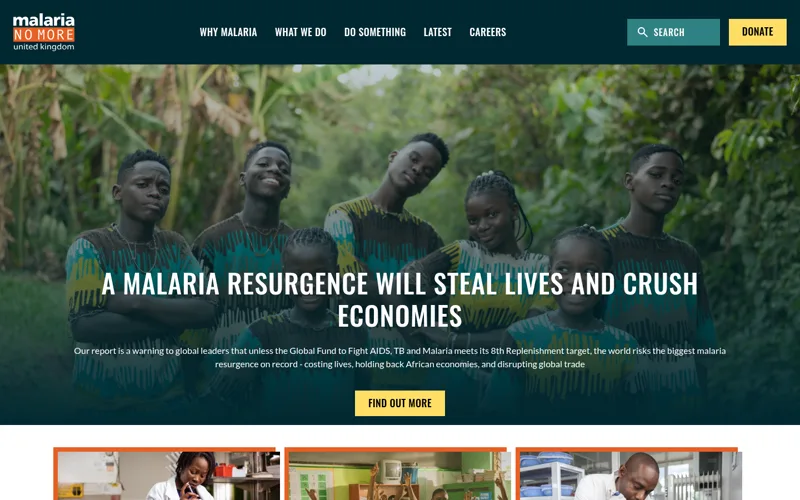
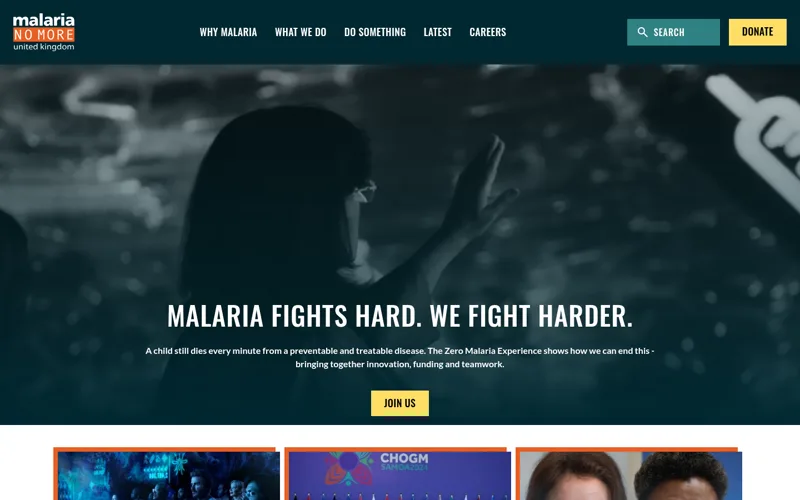
fix: tag each project with the year I worked on it (#40)
* fix: show Malaria No More UK as it was in December 2024

Its card was the only one tagged [today], because its screenshot came from the live site.
It now uses a Wayback Machine copy like the other cards.

* fix: tag each project with the year I worked on it

The bracket showed the year of the screenshot.
It now shows 2023, the middle of my time at Marzee and at Polywork.
The image alt text keeps the screenshot's year.

* fix: tag ILO Live with 2022, the year it launched

---------

diff --git a/src/content.js b/src/content.js
@@ -147,11 +147,13 @@ export const horizon = {
 // Public sites I worked on, each with a 1440×900 screenshot scaled to 800×500 in public/work.
 // A site redesigned or shut down since has an archive entry: the screenshot and the link show that Wayback Machine copy.
 // Without one, the screenshot was taken from the live site. A site with no live address is gone.
+// year is roughly when I worked on it: the middle of my time at the company, or the year the site launched.
 export const selectedWork = [
   {
     id: 'ilo',
     name: 'ILO Live',
     what: 'livestreaming platform',
+    year: 2022,
     live: 'https://live.ilo.org/',
     archive: { year: 2024, href: 'https://web.archive.org/web/20241213014757/https://live.ilo.org/' },
   },
@@ -159,12 +161,14 @@ export const selectedWork = [
     id: 'polywork',
     name: 'Polywork',
     what: 'AI website builder I advised',
+    year: 2023,
     archive: { year: 2023, href: 'https://web.archive.org/web/20231204054445/https://www.polywork.com/' },
   },
   {
     id: 'zero-malaria',
     name: 'Zero Malaria',
     what: 'campaign site',
+    year: 2023,
     live: 'https://zeromalaria.org/',
     archive: { year: 2024, href: 'https://web.archive.org/web/20241119180628/https://zeromalaria.org/' },
   },
@@ -172,12 +176,15 @@ export const selectedWork = [
     id: 'malaria-no-more-uk',
     name: 'Malaria No More UK',
     what: 'charity website',
+    year: 2023,
     live: 'https://malarianomore.org.uk/',
+    archive: { year: 2024, href: 'https://web.archive.org/web/20241203094340/https://malarianomore.org.uk/' },
   },
   {
     id: 'constellr',
     name: 'Constellr',
     what: 'satellite data company',
+    year: 2023,
     live: 'https://www.constellr.com/',
     archive: { year: 2024, href: 'https://web.archive.org/web/20241213045146/https://www.constellr.com/' },
   },

diff --git a/src/designs/plaintext/PlainProjects.jsx b/src/designs/plaintext/PlainProjects.jsx
@@ -11,14 +11,14 @@ function measure(list) {
 
 // The screenshot links to the version it shows: the archived copy when there is one.
 function Project({ item, hidden }) {
-  const { name, what, live, archive } = item
-  const when = archive ? String(archive.year) : copy.today
+  const { name, what, year, live, archive } = item
+  const shown = archive ? String(archive.year) : copy.today
   return (
     <li className="plaintext-shot" inert={hidden}>
       <a className="plaintext-shot-image" href={archive?.href ?? live}>
-        <img src={`/work/${item.id}.webp`} width="800" height="500" loading="lazy" decoding="async" alt={`${name} home page, ${when}`} />
+        <img src={`/work/${item.id}.webp`} width="800" height="500" loading="lazy" decoding="async" alt={`${name} home page, ${shown}`} />
       </a>
-      <p className="plaintext-shot-name"><span>{name}</span> <span className="plaintext-shot-when">[{when}]</span></p>
+      <p className="plaintext-shot-name"><span>{name}</span> <span className="plaintext-shot-when">[{year}]</span></p>
       <p className="plaintext-shot-what">{what}</p>
       <p className="plaintext-shot-links">
         {live && <a href={live}>{copy.visitLive}<span className="plaintext-sr">: {name}</span></a>}
